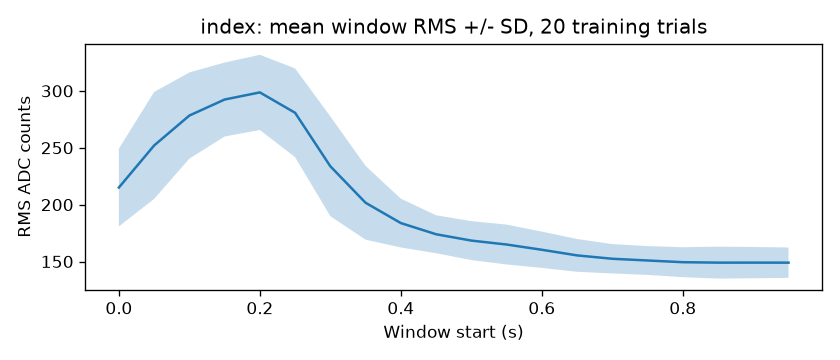
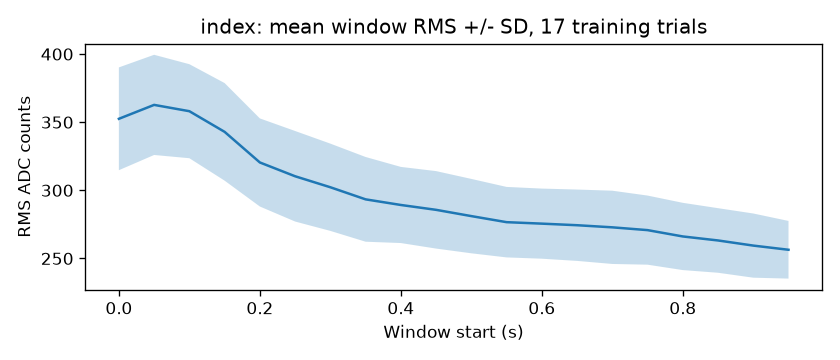
feat(results): add all 8 waveform characteristics and test-specific projection folders in results/training_results

diff --git a/README.md b/README.md
@@ -20,6 +20,9 @@ An end-to-end cyber-physical pipeline integrating **surface electromyography (sE
 5. [Signal Processing, Feature Sets (A to G) & ML Models](#5-signal-processing-feature-sets-a-to-g--ml-models)
 6. [ROS 2 & Gazebo Virtual Robotic Hand Simulation](#6-ros-2--gazebo-virtual-robotic-hand-simulation)
 7. [Experimental Results & Benchmark Performance](#7-experimental-results--benchmark-performance)
+   - [Master Benchmark Evaluation Table](#master-benchmark-evaluation-table)
+   - [Waveform Characteristics (All 8 Gestures)](#waveform-characteristics)
+   - [Training Results & Graphical Representations (`results/training_results/`)](#-training-results--graphical-representations-directory)
 8. [Step-by-Step Guide: How to Make It Work](#8-step-by-step-guide-how-to-make-it-work)
 9. [Relative Repositories, Documentation & References](#9-relative-repositories-documentation--references)
 
@@ -287,18 +290,46 @@ Comprehensive benchmarking was performed across 9 distinct experimental protocol
 | **9** | `rest, thumb, index, fist` (Placement P3) | 4 | 80 | **`G_TF8__SVM`** | **96.3%** | 30 | **83.3%** | 0.8765 | 63.3% | **90.0%** (`27/30`) |
 
 ### Waveform Characteristics
-Mean window RMS waveforms ($\pm 1\text{ SD}$) across training trials demonstrate distinct physiological contraction envelopes:
+Mean window RMS waveforms ($\pm 1\text{ SD}$) across training trials demonstrate distinct physiological contraction envelopes across all 8 evaluated movements and fingers:
 
-| Rest Baseline | Index Finger Flexion | Middle Finger Flexion | Power Fist |
+#### Individual Digits & Rest Baseline
+| Rest Baseline | Thumb Flexion | Index Finger Flexion | Middle Finger Flexion |
 |:---:|:---:|:---:|:---:|
-| ![Rest](docs/images/waveforms/rest_mean_RMS.png) | ![Index](docs/images/waveforms/index_mean_RMS.png) | ![Middle](docs/images/waveforms/middle_mean_RMS.png) | ![Fist](docs/images/waveforms/fist_mean_RMS.png) |
+| ![Rest](docs/images/waveforms/rest_mean_RMS.png) | ![Thumb](docs/images/waveforms/thumb_mean_RMS.png) | ![Index](docs/images/waveforms/index_mean_RMS.png) | ![Middle](docs/images/waveforms/middle_mean_RMS.png) |
 
-### 2D & 3D Feature Projections
-Principal Component Analysis (PCA) projections illustrate cluster separability and non-linear decision boundaries:
-* **2D Decision Boundaries**:
+#### Central / Ulnar Digits & Compound Grasps
+| Ring Finger Flexion | Little Finger Flexion | Precision Pinch | Power Fist |
+|:---:|:---:|:---:|:---:|
+| ![Ring](docs/images/waveforms/ring_mean_RMS.png) | ![Little](docs/images/waveforms/little_mean_RMS.png) | ![Pinch](docs/images/waveforms/pinch_mean_RMS.png) | ![Fist](docs/images/waveforms/fist_mean_RMS.png) |
+
+---
+
+### 2D & 3D Feature Projections & Decision Boundaries
+
+Principal Component Analysis (PCA) projections illustrate cluster separability, spatial cluster distributions, and non-linear decision boundaries for LDA, SVM, and KNN classifiers.
+
+* **Sample 2D Decision Boundaries (Placement P3, 4 Gestures, TF8 Features)**:
   ![2D Projections](docs/images/projections/P01_P3_4_gestures_training_KNN_SVM_LDA_2D.png)
-* **3D Decision Boundaries**:
+* **Sample 3D Decision Boundaries (Placement P3, 4 Gestures, TF8 Features)**:
   ![3D Projections](docs/images/projections/P01_P3_4_gestures_training_KNN_SVM_LDA_3D.png)
+
+#### 📁 Training Results & Graphical Representations Directory
+
+All graphical representation pictures (2D projections, 3D projections, and continuous probability gradient heatmaps) are organized into test-specific folders named by the exact fingers tested in the **[`results/training_results/`](results/training_results/)** archive:
+
+| Test Folder | Tested Fingers / Movements | Gestures ($N$) | Champion Model | CV Accuracy | Test Accuracy |
+|:---|:---|:---:|:---|:---:|:---:|
+| [**`01_rest_index_fist`**](results/training_results/01_rest_index_fist/) | Rest, Index, Fist | 3 | `A_RMS__KNN` | **100.00%** | **100.00%** |
+| [**`02_rest_middle_fist`**](results/training_results/02_rest_middle_fist/) | Rest, Middle, Fist | 3 | `B_MAV__KNN` | **100.00%** | **100.00%** |
+| [**`03_ring_little`**](results/training_results/03_ring_little/) | Ring, Little (Hard Adjacent Pair) | 2 | `C_WL__KNN` / `F_MAV_MAX_MIN__SVM` | **70.00%** | **68.75%** (Best) |
+| [**`04_middle_ring_little`**](results/training_results/04_middle_ring_little/) | Middle, Ring, Little (Adjacent Central/Ulnar) | 3 | `D_TD4__LDA` / `G_TF8__KNN` | **76.67%** | **92.86%** (Best) |
+| [**`05_rest_thumb_index_middle_fist`**](results/training_results/05_rest_thumb_index_middle_fist/) | Rest, Thumb, Index, Middle, Fist | 5 | `G_TF8__SVM` | **98.00%** | **86.67%** |
+| [**`06_rest_thumb_index_pinch_fist`**](results/training_results/06_rest_thumb_index_pinch_fist/) | Rest, Thumb, Index, Pinch, Fist | 5 | `G_TF8__SVM` | **90.00%** | **92.31%** |
+| [**`07_all_8_gestures`**](results/training_results/07_all_8_gestures/) | All 8 Gestures (Cross-Day P1 Evaluation) | 8 | `G_TF8__SVM` | **76.40%** | **42.42%** |
+| [**`08_rest_index_fist_p3`**](results/training_results/08_rest_index_fist_p3/) | Rest, Index, Fist (Placement P3 Baseline) | 3 | `C_WL__KNN` | **100.00%** | **100.00%** |
+| [**`09_rest_thumb_index_fist_p3`**](results/training_results/09_rest_thumb_index_fist_p3/) | Rest, Thumb, Index, Fist (Placement P3 Multi-Session) | 4 | `G_TF8__SVM` / `F_MAV_MAX_MIN__KNN` | **96.25%** | **87.27%** (Best) |
+
+Each subfolder contains high-resolution 2D scatter plots, 3D rotating perspective plots, and continuous decision boundary gradient heatmaps across all 3 classifiers.
 
 ---
 

diff --git a/results/training_results/09_rest_thumb_index_fist_p3/README.md b/results/training_results/09_rest_thumb_index_fist_p3/README.md
@@ -1,0 +1,41 @@
+# Study 9: rest, thumb, index, fist (Placement P3 Multi-Session)
+
+- **Subject**: P01
+- **Electrode Placement**: P3
+- **Champion / Evaluated Model**: `G_TF8__SVM / F_MAV_MAX_MIN__KNN`
+- **3-Fold Cross-Validation Accuracy**: 96.25% (77/80)
+- **Held-Out Test Accuracy**: 83.33% (N=30) / 87.27% (N=55 Best Test)
+
+---
+
+## Graphical Representations & Decision Boundaries
+
+### 2D Feature Projections & Decision Boundaries
+
+![Study09a_P01_P3_rest_thumb_index_fist_test_N30_G_TF8_KNN_SVM_LDA_2D.png](Study09a_P01_P3_rest_thumb_index_fist_test_N30_G_TF8_KNN_SVM_LDA_2D.png)
+
+![Study09b_P01_P3_rest_thumb_index_fist_test_N55_best_F_MAV_MAX_MIN_KNN_SVM_LDA_2D.png](Study09b_P01_P3_rest_thumb_index_fist_test_N55_best_F_MAV_MAX_MIN_KNN_SVM_LDA_2D.png)
+
+![Study09b_P01_P3_rest_thumb_index_fist_test_N55_inscope_G_TF8_KNN_SVM_LDA_2D.png](Study09b_P01_P3_rest_thumb_index_fist_test_N55_inscope_G_TF8_KNN_SVM_LDA_2D.png)
+
+![Study09b_P01_P3_rest_thumb_index_fist_test_N61_live_G_TF8_KNN_SVM_LDA_2D.png](Study09b_P01_P3_rest_thumb_index_fist_test_N61_live_G_TF8_KNN_SVM_LDA_2D.png)
+
+### 3D Feature Projections & Decision Boundaries
+
+![Study09a_P01_P3_rest_thumb_index_fist_test_N30_G_TF8_KNN_SVM_LDA_3D.png](Study09a_P01_P3_rest_thumb_index_fist_test_N30_G_TF8_KNN_SVM_LDA_3D.png)
+
+![Study09b_P01_P3_rest_thumb_index_fist_test_N55_best_F_MAV_MAX_MIN_KNN_SVM_LDA_3D.png](Study09b_P01_P3_rest_thumb_index_fist_test_N55_best_F_MAV_MAX_MIN_KNN_SVM_LDA_3D.png)
+
+![Study09b_P01_P3_rest_thumb_index_fist_test_N55_inscope_G_TF8_KNN_SVM_LDA_3D.png](Study09b_P01_P3_rest_thumb_index_fist_test_N55_inscope_G_TF8_KNN_SVM_LDA_3D.png)
+
+![Study09b_P01_P3_rest_thumb_index_fist_test_N61_live_G_TF8_KNN_SVM_LDA_3D.png](Study09b_P01_P3_rest_thumb_index_fist_test_N61_live_G_TF8_KNN_SVM_LDA_3D.png)
+
+### Classifier Decision Boundary Gradient Heatmaps
+
+![Study09a_P01_P3_rest_thumb_index_fist_test_N30_G_TF8_KNN_SVM_LDA_gradient_heatmaps.png](Study09a_P01_P3_rest_thumb_index_fist_test_N30_G_TF8_KNN_SVM_LDA_gradient_heatmaps.png)
+
+![Study09b_P01_P3_rest_thumb_index_fist_test_N55_best_F_MAV_MAX_MIN_KNN_SVM_LDA_gradient_heatmaps.png](Study09b_P01_P3_rest_thumb_index_fist_test_N55_best_F_MAV_MAX_MIN_KNN_SVM_LDA_gradient_heatmaps.png)
+
+![Study09b_P01_P3_rest_thumb_index_fist_test_N55_inscope_G_TF8_KNN_SVM_LDA_gradient_heatmaps.png](Study09b_P01_P3_rest_thumb_index_fist_test_N55_inscope_G_TF8_KNN_SVM_LDA_gradient_heatmaps.png)
+
+![Study09b_P01_P3_rest_thumb_index_fist_test_N61_live_G_TF8_KNN_SVM_LDA_gradient_heatmaps.png](Study09b_P01_P3_rest_thumb_index_fist_test_N61_live_G_TF8_KNN_SVM_LDA_gradient_heatmaps.png)

diff --git a/results/training_results/README.md b/results/training_results/README.md
@@ -1,0 +1,29 @@
+# Benchmark Training Results & Decision Boundary Projections
+
+This directory archives the complete graphical representations, 2D/3D feature projections, and classifier decision boundary gradient heatmaps across all evaluated gesture combinations and finger tests.
+
+---
+
+## Study Navigation Index
+
+| Study Folder | Tested Fingers / Gestures | Classes ($N$) | Champion Model | 3-Fold CV Acc | Held-Out Test Acc |
+|:---|:---|:---:|:---|:---:|:---:|
+| [**`01_rest_index_fist`**](01_rest_index_fist/) | Rest, Index, Fist | 3 | `A_RMS__KNN` | **100.00%** | **100.00%** |
+| [**`02_rest_middle_fist`**](02_rest_middle_fist/) | Rest, Middle, Fist | 3 | `B_MAV__KNN` | **100.00%** | **100.00%** |
+| [**`03_ring_little`**](03_ring_little/) | Ring, Little (Hard Adjacent Pair) | 2 | `C_WL__KNN` / `F_MAV_MAX_MIN__SVM` | **70.00%** | **68.75%** (Best) |
+| [**`04_middle_ring_little`**](04_middle_ring_little/) | Middle, Ring, Little (Adjacent Digits) | 3 | `D_TD4__LDA` / `G_TF8__KNN` | **76.67%** | **92.86%** (Best) |
+| [**`05_rest_thumb_index_middle_fist`**](05_rest_thumb_index_middle_fist/) | Rest, Thumb, Index, Middle, Fist | 5 | `G_TF8__SVM` | **98.00%** | **86.67%** |
+| [**`06_rest_thumb_index_pinch_fist`**](06_rest_thumb_index_pinch_fist/) | Rest, Thumb, Index, Pinch, Fist | 5 | `G_TF8__SVM` | **90.00%** | **92.31%** |
+| [**`07_all_8_gestures`**](07_all_8_gestures/) | All 8 Gestures (Cross-Day P1 Test) | 8 | `G_TF8__SVM` | **76.40%** | **42.42%** |
+| [**`08_rest_index_fist_p3`**](08_rest_index_fist_p3/) | Rest, Index, Fist (Placement P3) | 3 | `C_WL__KNN` | **100.00%** | **100.00%** |
+| [**`09_rest_thumb_index_fist_p3`**](09_rest_thumb_index_fist_p3/) | Rest, Thumb, Index, Fist (Placement P3) | 4 | `G_TF8__SVM` / `F_MAV_MAX_MIN__KNN` | **96.25%** | **87.27%** (Best) |
+
+---
+
+## Directory Organization
+Each subfolder contains:
+* `*_training_*_2D.png`: 2D PCA projection of training trials showing class cluster distribution.
+* `*_training_*_3D.png`: 3D PCA projection illustrating spatial separation across the top 3 principal components.
+* `*_training_*_gradient_heatmaps.png`: Continuous decision boundaries and classification confidence gradients for LDA, SVM, and KNN.
+* `*_test_*_2D.png` & `*_3D.png`: Held-out test evaluation projections overlaying accepted predictions and rejected trials.
+* `README.md`: Specific summary of the protocol, data split, and model performance.

diff --git a/results/training_results/04_middle_ring_little/README.md b/results/training_results/04_middle_ring_little/README.md
@@ -1,0 +1,41 @@
+# Study 4: middle, ring, little (3 Adjacent Central/Ulnar Digits)
+
+- **Subject**: P01
+- **Electrode Placement**: P7
+- **Champion / Evaluated Model**: `D_TD4__LDA (Selected) / G_TF8__KNN (Best Test)`
+- **3-Fold Cross-Validation Accuracy**: 76.67% (46/60)
+- **Held-Out Test Accuracy**: 35.71% (Selected) / 92.86% (Best Test)
+
+---
+
+## Graphical Representations & Decision Boundaries
+
+### 2D Feature Projections & Decision Boundaries
+
+![Study04_P01_P7_middle_ring_little_test_best_G_TF8_KNN_SVM_LDA_2D.png](Study04_P01_P7_middle_ring_little_test_best_G_TF8_KNN_SVM_LDA_2D.png)
+
+![Study04_P01_P7_middle_ring_little_test_D_TD4_KNN_SVM_LDA_2D.png](Study04_P01_P7_middle_ring_little_test_D_TD4_KNN_SVM_LDA_2D.png)
+
+![Study04_P01_P7_middle_ring_little_training_D_TD4_KNN_SVM_LDA_2D.png](Study04_P01_P7_middle_ring_little_training_D_TD4_KNN_SVM_LDA_2D.png)
+
+![Study04_P01_P7_middle_ring_little_training_G_TF8_KNN_SVM_LDA_2D.png](Study04_P01_P7_middle_ring_little_training_G_TF8_KNN_SVM_LDA_2D.png)
+
+### 3D Feature Projections & Decision Boundaries
+
+![Study04_P01_P7_middle_ring_little_test_best_G_TF8_KNN_SVM_LDA_3D.png](Study04_P01_P7_middle_ring_little_test_best_G_TF8_KNN_SVM_LDA_3D.png)
+
+![Study04_P01_P7_middle_ring_little_test_D_TD4_KNN_SVM_LDA_3D.png](Study04_P01_P7_middle_ring_little_test_D_TD4_KNN_SVM_LDA_3D.png)
+
+![Study04_P01_P7_middle_ring_little_training_D_TD4_KNN_SVM_LDA_3D.png](Study04_P01_P7_middle_ring_little_training_D_TD4_KNN_SVM_LDA_3D.png)
+
+![Study04_P01_P7_middle_ring_little_training_G_TF8_KNN_SVM_LDA_3D.png](Study04_P01_P7_middle_ring_little_training_G_TF8_KNN_SVM_LDA_3D.png)
+
+### Classifier Decision Boundary Gradient Heatmaps
+
+![Study04_P01_P7_middle_ring_little_test_best_G_TF8_KNN_SVM_LDA_gradient_heatmaps.png](Study04_P01_P7_middle_ring_little_test_best_G_TF8_KNN_SVM_LDA_gradient_heatmaps.png)
+
+![Study04_P01_P7_middle_ring_little_test_D_TD4_KNN_SVM_LDA_gradient_heatmaps.png](Study04_P01_P7_middle_ring_little_test_D_TD4_KNN_SVM_LDA_gradient_heatmaps.png)
+
+![Study04_P01_P7_middle_ring_little_training_D_TD4_KNN_SVM_LDA_gradient_heatmaps.png](Study04_P01_P7_middle_ring_little_training_D_TD4_KNN_SVM_LDA_gradient_heatmaps.png)
+
+![Study04_P01_P7_middle_ring_little_training_G_TF8_KNN_SVM_LDA_gradient_heatmaps.png](Study04_P01_P7_middle_ring_little_training_G_TF8_KNN_SVM_LDA_gradient_heatmaps.png)

diff --git a/results/training_results/03_ring_little/README.md b/results/training_results/03_ring_little/README.md
@@ -1,0 +1,41 @@
+# Study 3: ring, little (2 Hard Adjacent Gestures)
+
+- **Subject**: P01
+- **Electrode Placement**: P7 / ring-little
+- **Champion / Evaluated Model**: `C_WL__KNN (Selected) / F_MAV_MAX_MIN__SVM (Best Test)`
+- **3-Fold Cross-Validation Accuracy**: 70.00% (28/40)
+- **Held-Out Test Accuracy**: 50.00% (Selected) / 68.75% (Best Test)
+
+---
+
+## Graphical Representations & Decision Boundaries
+
+### 2D Feature Projections & Decision Boundaries
+
+![Study03_P01_P7_ring_little_test_best_F_MAV_MAX_MIN_KNN_SVM_LDA_2D.png](Study03_P01_P7_ring_little_test_best_F_MAV_MAX_MIN_KNN_SVM_LDA_2D.png)
+
+![Study03_P01_P7_ring_little_test_C_WL_KNN_SVM_LDA_2D.png](Study03_P01_P7_ring_little_test_C_WL_KNN_SVM_LDA_2D.png)
+
+![Study03_P01_P7_ring_little_training_C_WL_KNN_SVM_LDA_2D.png](Study03_P01_P7_ring_little_training_C_WL_KNN_SVM_LDA_2D.png)
+
+![Study03_P01_P7_ring_little_training_F_MAV_MAX_MIN_KNN_SVM_LDA_2D.png](Study03_P01_P7_ring_little_training_F_MAV_MAX_MIN_KNN_SVM_LDA_2D.png)
+
+### 3D Feature Projections & Decision Boundaries
+
+![Study03_P01_P7_ring_little_test_best_F_MAV_MAX_MIN_KNN_SVM_LDA_3D.png](Study03_P01_P7_ring_little_test_best_F_MAV_MAX_MIN_KNN_SVM_LDA_3D.png)
+
+![Study03_P01_P7_ring_little_test_C_WL_KNN_SVM_LDA_3D.png](Study03_P01_P7_ring_little_test_C_WL_KNN_SVM_LDA_3D.png)
+
+![Study03_P01_P7_ring_little_training_C_WL_KNN_SVM_LDA_3D.png](Study03_P01_P7_ring_little_training_C_WL_KNN_SVM_LDA_3D.png)
+
+![Study03_P01_P7_ring_little_training_F_MAV_MAX_MIN_KNN_SVM_LDA_3D.png](Study03_P01_P7_ring_little_training_F_MAV_MAX_MIN_KNN_SVM_LDA_3D.png)
+
+### Classifier Decision Boundary Gradient Heatmaps
+
+![Study03_P01_P7_ring_little_test_best_F_MAV_MAX_MIN_KNN_SVM_LDA_gradient_heatmaps.png](Study03_P01_P7_ring_little_test_best_F_MAV_MAX_MIN_KNN_SVM_LDA_gradient_heatmaps.png)
+
+![Study03_P01_P7_ring_little_test_C_WL_KNN_SVM_LDA_gradient_heatmaps.png](Study03_P01_P7_ring_little_test_C_WL_KNN_SVM_LDA_gradient_heatmaps.png)
+
+![Study03_P01_P7_ring_little_training_C_WL_KNN_SVM_LDA_gradient_heatmaps.png](Study03_P01_P7_ring_little_training_C_WL_KNN_SVM_LDA_gradient_heatmaps.png)
+
+![Study03_P01_P7_ring_little_training_F_MAV_MAX_MIN_KNN_SVM_LDA_gradient_heatmaps.png](Study03_P01_P7_ring_little_training_F_MAV_MAX_MIN_KNN_SVM_LDA_gradient_heatmaps.png)

diff --git a/results/training_results/05_rest_thumb_index_middle_fist/README.md b/results/training_results/05_rest_thumb_index_middle_fist/README.md
@@ -1,0 +1,29 @@
+# Study 5: rest, thumb, index, middle, fist (5 Gestures)
+
+- **Subject**: P01
+- **Electrode Placement**: P6
+- **Champion / Evaluated Model**: `G_TF8__SVM`
+- **3-Fold Cross-Validation Accuracy**: 98.00% (98/100)
+- **Held-Out Test Accuracy**: 86.67% (39/45)
+
+---
+
+## Graphical Representations & Decision Boundaries
+
+### 2D Feature Projections & Decision Boundaries
+
+![Study05_P01_P6_rest_thumb_index_middle_fist_test_G_TF8_KNN_SVM_LDA_2D.png](Study05_P01_P6_rest_thumb_index_middle_fist_test_G_TF8_KNN_SVM_LDA_2D.png)
+
+![Study05_P01_P6_rest_thumb_index_middle_fist_training_G_TF8_KNN_SVM_LDA_2D.png](Study05_P01_P6_rest_thumb_index_middle_fist_training_G_TF8_KNN_SVM_LDA_2D.png)
+
+### 3D Feature Projections & Decision Boundaries
+
+![Study05_P01_P6_rest_thumb_index_middle_fist_test_G_TF8_KNN_SVM_LDA_3D.png](Study05_P01_P6_rest_thumb_index_middle_fist_test_G_TF8_KNN_SVM_LDA_3D.png)
+
+![Study05_P01_P6_rest_thumb_index_middle_fist_training_G_TF8_KNN_SVM_LDA_3D.png](Study05_P01_P6_rest_thumb_index_middle_fist_training_G_TF8_KNN_SVM_LDA_3D.png)
+
+### Classifier Decision Boundary Gradient Heatmaps
+
+![Study05_P01_P6_rest_thumb_index_middle_fist_test_G_TF8_KNN_SVM_LDA_gradient_heatmaps.png](Study05_P01_P6_rest_thumb_index_middle_fist_test_G_TF8_KNN_SVM_LDA_gradient_heatmaps.png)
+
+![Study05_P01_P6_rest_thumb_index_middle_fist_training_G_TF8_KNN_SVM_LDA_gradient_heatmaps.png](Study05_P01_P6_rest_thumb_index_middle_fist_training_G_TF8_KNN_SVM_LDA_gradient_heatmaps.png)

diff --git a/results/training_results/06_rest_thumb_index_pinch_fist/README.md b/results/training_results/06_rest_thumb_index_pinch_fist/README.md
@@ -1,0 +1,29 @@
+# Study 6: rest, thumb, index, pinch, fist (5 Gestures with Pinch)
+
+- **Subject**: P01
+- **Electrode Placement**: P8
+- **Champion / Evaluated Model**: `G_TF8__SVM`
+- **3-Fold Cross-Validation Accuracy**: 90.00% (90/100)
+- **Held-Out Test Accuracy**: 92.31% (24/26)
+
+---
+
+## Graphical Representations & Decision Boundaries
+
+### 2D Feature Projections & Decision Boundaries
+
+![Study06_P01_P8_rest_thumb_index_pinch_fist_test_G_TF8_KNN_SVM_LDA_2D.png](Study06_P01_P8_rest_thumb_index_pinch_fist_test_G_TF8_KNN_SVM_LDA_2D.png)
+
+![Study06_P01_P8_rest_thumb_index_pinch_fist_training_G_TF8_KNN_SVM_LDA_2D.png](Study06_P01_P8_rest_thumb_index_pinch_fist_training_G_TF8_KNN_SVM_LDA_2D.png)
+
+### 3D Feature Projections & Decision Boundaries
+
+![Study06_P01_P8_rest_thumb_index_pinch_fist_test_G_TF8_KNN_SVM_LDA_3D.png](Study06_P01_P8_rest_thumb_index_pinch_fist_test_G_TF8_KNN_SVM_LDA_3D.png)
+
+![Study06_P01_P8_rest_thumb_index_pinch_fist_training_G_TF8_KNN_SVM_LDA_3D.png](Study06_P01_P8_rest_thumb_index_pinch_fist_training_G_TF8_KNN_SVM_LDA_3D.png)
+
+### Classifier Decision Boundary Gradient Heatmaps
+
+![Study06_P01_P8_rest_thumb_index_pinch_fist_test_G_TF8_KNN_SVM_LDA_gradient_heatmaps.png](Study06_P01_P8_rest_thumb_index_pinch_fist_test_G_TF8_KNN_SVM_LDA_gradient_heatmaps.png)
+
+![Study06_P01_P8_rest_thumb_index_pinch_fist_training_G_TF8_KNN_SVM_LDA_gradient_heatmaps.png](Study06_P01_P8_rest_thumb_index_pinch_fist_training_G_TF8_KNN_SVM_LDA_gradient_heatmaps.png)

diff --git a/results/training_results/07_all_8_gestures/README.md b/results/training_results/07_all_8_gestures/README.md
@@ -1,0 +1,29 @@
+# Study 7: All 8 Gestures (rest, thumb, index, middle, ring, little, pinch, fist)
+
+- **Subject**: P01
+- **Electrode Placement**: Train: all fingers (P02/P3), Test: P01/P1 (Cross-Day)
+- **Champion / Evaluated Model**: `G_TF8__SVM`
+- **3-Fold Cross-Validation Accuracy**: 76.40% (123/161)
+- **Held-Out Test Accuracy**: 42.42% (14/33)
+
+---
+
+## Graphical Representations & Decision Boundaries
+
+### 2D Feature Projections & Decision Boundaries
+
+![Study07_P01_all_8_gestures_test_on_P01_P1_G_TF8_KNN_SVM_LDA_2D.png](Study07_P01_all_8_gestures_test_on_P01_P1_G_TF8_KNN_SVM_LDA_2D.png)
+
+![Study07_P01_all_8_gestures_training_G_TF8_KNN_SVM_LDA_2D.png](Study07_P01_all_8_gestures_training_G_TF8_KNN_SVM_LDA_2D.png)
+
+### 3D Feature Projections & Decision Boundaries
+
+![Study07_P01_all_8_gestures_test_on_P01_P1_G_TF8_KNN_SVM_LDA_3D.png](Study07_P01_all_8_gestures_test_on_P01_P1_G_TF8_KNN_SVM_LDA_3D.png)
+
+![Study07_P01_all_8_gestures_training_G_TF8_KNN_SVM_LDA_3D.png](Study07_P01_all_8_gestures_training_G_TF8_KNN_SVM_LDA_3D.png)
+
+### Classifier Decision Boundary Gradient Heatmaps
+
+![Study07_P01_all_8_gestures_test_on_P01_P1_G_TF8_KNN_SVM_LDA_gradient_heatmaps.png](Study07_P01_all_8_gestures_test_on_P01_P1_G_TF8_KNN_SVM_LDA_gradient_heatmaps.png)
+
+![Study07_P01_all_8_gestures_training_G_TF8_KNN_SVM_LDA_gradient_heatmaps.png](Study07_P01_all_8_gestures_training_G_TF8_KNN_SVM_LDA_gradient_heatmaps.png)

diff --git a/results/training_results/02_rest_middle_fist/README.md b/results/training_results/02_rest_middle_fist/README.md
@@ -1,0 +1,29 @@
+# Study 2: rest, middle, fist (3 Gestures)
+
+- **Subject**: P01
+- **Electrode Placement**: P5
+- **Champion / Evaluated Model**: `B_MAV__KNN`
+- **3-Fold Cross-Validation Accuracy**: 100.00% (60/60)
+- **Held-Out Test Accuracy**: 100.00% (10/10)
+
+---
+
+## Graphical Representations & Decision Boundaries
+
+### 2D Feature Projections & Decision Boundaries
+
+![Study02_P01_P5_rest_middle_fist_test_B_MAV_KNN_SVM_LDA_2D.png](Study02_P01_P5_rest_middle_fist_test_B_MAV_KNN_SVM_LDA_2D.png)
+
+![Study02_P01_P5_rest_middle_fist_training_B_MAV_KNN_SVM_LDA_2D.png](Study02_P01_P5_rest_middle_fist_training_B_MAV_KNN_SVM_LDA_2D.png)
+
+### 3D Feature Projections & Decision Boundaries
+
+![Study02_P01_P5_rest_middle_fist_test_B_MAV_KNN_SVM_LDA_3D.png](Study02_P01_P5_rest_middle_fist_test_B_MAV_KNN_SVM_LDA_3D.png)
+
+![Study02_P01_P5_rest_middle_fist_training_B_MAV_KNN_SVM_LDA_3D.png](Study02_P01_P5_rest_middle_fist_training_B_MAV_KNN_SVM_LDA_3D.png)
+
+### Classifier Decision Boundary Gradient Heatmaps
+
+![Study02_P01_P5_rest_middle_fist_test_B_MAV_KNN_SVM_LDA_gradient_heatmaps.png](Study02_P01_P5_rest_middle_fist_test_B_MAV_KNN_SVM_LDA_gradient_heatmaps.png)
+
+![Study02_P01_P5_rest_middle_fist_training_B_MAV_KNN_SVM_LDA_gradient_heatmaps.png](Study02_P01_P5_rest_middle_fist_training_B_MAV_KNN_SVM_LDA_gradient_heatmaps.png)

diff --git a/results/training_results/01_rest_index_fist/README.md b/results/training_results/01_rest_index_fist/README.md
@@ -1,0 +1,29 @@
+# Study 1: rest, index, fist (3 Gestures)
+
+- **Subject**: P01
+- **Electrode Placement**: P4
+- **Champion / Evaluated Model**: `A_RMS__KNN`
+- **3-Fold Cross-Validation Accuracy**: 100.00% (60/60)
+- **Held-Out Test Accuracy**: 100.00% (10/10)
+
+---
+
+## Graphical Representations & Decision Boundaries
+
+### 2D Feature Projections & Decision Boundaries
+
+![Study01_P01_P4_rest_index_fist_test_A_RMS_KNN_SVM_LDA_2D.png](Study01_P01_P4_rest_index_fist_test_A_RMS_KNN_SVM_LDA_2D.png)
+
+![Study01_P01_P4_rest_index_fist_training_A_RMS_KNN_SVM_LDA_2D.png](Study01_P01_P4_rest_index_fist_training_A_RMS_KNN_SVM_LDA_2D.png)
+
+### 3D Feature Projections & Decision Boundaries
+
+![Study01_P01_P4_rest_index_fist_test_A_RMS_KNN_SVM_LDA_3D.png](Study01_P01_P4_rest_index_fist_test_A_RMS_KNN_SVM_LDA_3D.png)
+
+![Study01_P01_P4_rest_index_fist_training_A_RMS_KNN_SVM_LDA_3D.png](Study01_P01_P4_rest_index_fist_training_A_RMS_KNN_SVM_LDA_3D.png)
+
+### Classifier Decision Boundary Gradient Heatmaps
+
+![Study01_P01_P4_rest_index_fist_test_A_RMS_KNN_SVM_LDA_gradient_heatmaps.png](Study01_P01_P4_rest_index_fist_test_A_RMS_KNN_SVM_LDA_gradient_heatmaps.png)
+
+![Study01_P01_P4_rest_index_fist_training_A_RMS_KNN_SVM_LDA_gradient_heatmaps.png](Study01_P01_P4_rest_index_fist_training_A_RMS_KNN_SVM_LDA_gradient_heatmaps.png)

diff --git a/results/training_results/08_rest_index_fist_p3/README.md b/results/training_results/08_rest_index_fist_p3/README.md
@@ -1,0 +1,29 @@
+# Study 8: rest, index, fist (Placement P3 Baseline)
+
+- **Subject**: P01
+- **Electrode Placement**: P3
+- **Champion / Evaluated Model**: `C_WL__KNN`
+- **3-Fold Cross-Validation Accuracy**: 100.00% (60/60)
+- **Held-Out Test Accuracy**: 100.00% (5/5)
+
+---
+
+## Graphical Representations & Decision Boundaries
+
+### 2D Feature Projections & Decision Boundaries
+
+![Study08_P01_P3_rest_index_fist_test_C_WL_KNN_SVM_LDA_2D.png](Study08_P01_P3_rest_index_fist_test_C_WL_KNN_SVM_LDA_2D.png)
+
+![Study08_P01_P3_rest_index_fist_training_C_WL_KNN_SVM_LDA_2D.png](Study08_P01_P3_rest_index_fist_training_C_WL_KNN_SVM_LDA_2D.png)
+
+### 3D Feature Projections & Decision Boundaries
+
+![Study08_P01_P3_rest_index_fist_test_C_WL_KNN_SVM_LDA_3D.png](Study08_P01_P3_rest_index_fist_test_C_WL_KNN_SVM_LDA_3D.png)
+
+![Study08_P01_P3_rest_index_fist_training_C_WL_KNN_SVM_LDA_3D.png](Study08_P01_P3_rest_index_fist_training_C_WL_KNN_SVM_LDA_3D.png)
+
+### Classifier Decision Boundary Gradient Heatmaps
+
+![Study08_P01_P3_rest_index_fist_test_C_WL_KNN_SVM_LDA_gradient_heatmaps.png](Study08_P01_P3_rest_index_fist_test_C_WL_KNN_SVM_LDA_gradient_heatmaps.png)
+
+![Study08_P01_P3_rest_index_fist_training_C_WL_KNN_SVM_LDA_gradient_heatmaps.png](Study08_P01_P3_rest_index_fist_training_C_WL_KNN_SVM_LDA_gradient_heatmaps.png)
